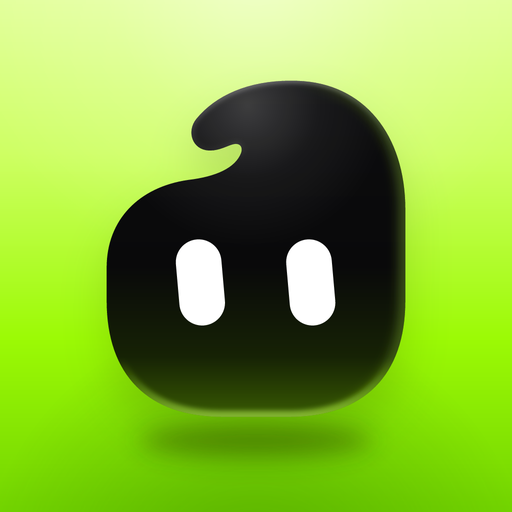
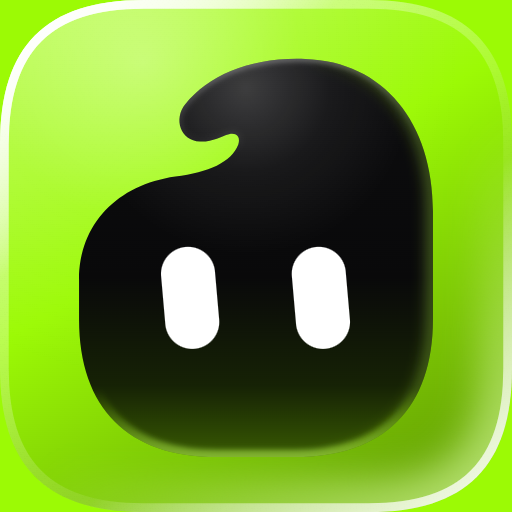
Ícone da aba volta a ser o Doug para todo mundo
A mistura do oficial (#92, ADR 0179) trocou o ícone da aba por /favicon.ico, o
céu de pixel do agentes.chat, no index.html e no ícone padrão de lib/app-icon.ts.
Agora os dois apontam de novo para /favicon.svg (o Doug), e favicon.ico,
apple-touch-icon.png e icon-512.png foram redesenhados a partir do mesmo Doug,
para o que não lê SVG (Safari antigo, tela inicial do iPhone, ícone do MCP).
O app-icons.mjs do oficial deixa de regravar esses três arquivos, e o
SYNC-DOUG.md registra a mudança para a próxima mistura.

diff --git a/apps/web/test/app-icon.test.ts b/apps/web/test/app-icon.test.ts
@@ -18,15 +18,15 @@ import {
 import { STORAGE_KEYS } from "../src/lib/storage";
 
 describe("the app icon in a browser (ADR 0179)", () => {
-  test("the shipped icon is the favicon browsers ask for; the others have their own", () => {
-    expect(faviconOf("night")).toBe("/favicon.ico");
+  test("the shipped icon is the Doug; the others have their own", () => {
+    expect(faviconOf("night")).toBe("/favicon.svg");
     expect(faviconOf("peekSky")).toBe("/app-icons/peekSky.ico");
     expect(APP_ICONS.map(appIconPicture)).toContain("/app-icons/moon.png");
     expect(picksAppIcon()).toBe(true);
   });
 
   test("a pick changes the tab's icon and stays in this browser", async () => {
-    document.head.innerHTML = '<link rel="icon" href="/favicon.ico" sizes="16x16 32x32 48x48" />';
+    document.head.innerHTML = '<link rel="icon" href="/favicon.svg" />';
     const changes: string[] = [];
     const listen = () => changes.push(String(appIcon()));
     window.addEventListener("agentes:app-icon", listen);
@@ -35,13 +35,13 @@ describe("the app icon in a browser (ADR 0179)", () => {
     expect(localStorage.getItem(STORAGE_KEYS.appIcon)).toBe("moon");
     expect(appIcon()).toBe("moon");
     await setAppIcon("night");
-    expect(document.querySelector('link[rel="icon"]')?.getAttribute("href")).toBe("/favicon.ico");
+    expect(document.querySelector('link[rel="icon"]')?.getAttribute("href")).toBe("/favicon.svg");
     expect(changes).toEqual(["moon", "night"]);
     window.removeEventListener("agentes:app-icon", listen);
   });
 
   test("an agent picked is kept with who it is and its look, and read back only when well formed", async () => {
-    document.head.innerHTML = '<link rel="icon" href="/favicon.ico" sizes="16x16 32x32 48x48" />';
+    document.head.innerHTML = '<link rel="icon" href="/favicon.svg" />';
     const agent = { orgId: "o-1", id: "a_1", name: "Dev", look: { color: "violet" as const, eyes: "wide" as const } };
     await setAppIcon({ agent });
     expect(pickedAgent(appIcon())).toEqual(agent);

diff --git a/apps/web/index.html b/apps/web/index.html
@@ -2,8 +2,9 @@
 <html lang="en" data-theme="dark">
   <head>
     <meta charset="UTF-8" />
-    <!-- Drawn pixel by pixel at 16 and 32 (packages/ui/scripts/app-icons.mjs); a person's pick swaps it (lib/app-icon.ts). -->
-    <link rel="icon" href="/favicon.ico" sizes="16x16 32x32 48x48" />
+    <!-- The Doug (public/favicon.svg, from packages/ui/scripts/dougbot-files.ts); a person's pick swaps it (lib/app-icon.ts).
+         favicon.ico, apple-touch-icon.png and icon-512.png are the same Doug for what can't read an SVG. -->
+    <link rel="icon" href="/favicon.svg" />
     <link rel="apple-touch-icon" href="/apple-touch-icon.png" />
     <!-- viewport-fit=cover: the layout pads itself with env(safe-area-inset-*); the keyboard resizes the page (composer stays visible). -->
     <meta name="viewport" content="width=device-width, initial-scale=1.0, viewport-fit=cover, interactive-widget=resizes-content" />

diff --git a/apps/web/src/lib/app-icon.ts b/apps/web/src/lib/app-icon.ts
@@ -48,8 +48,8 @@ let current: AppIconPick = inDesktopApp() ? DEFAULT_APP_ICON : parsePick(storage
 
 /** The icon's picture in the picker (packages/ui/scripts/app-icons.mjs writes them). */
 export const appIconPicture = (id: AppIconId) => `/app-icons/${id}.png`;
-/** The tab's icon: the shipped one at the address browsers ask for on their own. */
-export const faviconOf = (id: AppIconId) => (id === DEFAULT_APP_ICON ? "/favicon.ico" : `/app-icons/${id}.ico`);
+/** The tab's icon: the shipped one is the Doug (DougBot's mark, the same as index.html's), the others their own. */
+export const faviconOf = (id: AppIconId) => (id === DEFAULT_APP_ICON ? "/favicon.svg" : `/app-icons/${id}.ico`);
 
 /** Whether this device can change its icon here (a browser, or a desktop app that keeps one). */
 export const picksAppIcon = () => !inDesktopApp() || desktopPicksAppIcon();

diff --git a/apps/server/src/app.ts b/apps/server/src/app.ts
@@ -427,7 +427,8 @@ export function createApp(options: AppOptions) {
       const html = c.res.headers.get("content-type")?.startsWith("text/html");
       if (html) c.res.headers.set("x-robots-tag", "noindex");
       if (!c.res.ok || c.res.headers.has("cache-control")) return;
-      if (html || c.req.path === "/favicon.svg") c.res.headers.set("cache-control", "no-cache");
+      if (html || c.req.path === "/favicon.svg" || c.req.path === "/favicon.ico")
+        c.res.headers.set("cache-control", "no-cache");
       else if (c.req.path.startsWith("/assets/"))
         c.res.headers.set("cache-control", "public, max-age=31536000, immutable");
     });

diff --git a/SYNC-DOUG.md b/SYNC-DOUG.md
@@ -47,6 +47,7 @@ Montar a imagem no servidor a partir do `main` (ou de uma tag `doug-*`) e subir 
 - Grupos/canais com nome de exibição e foto (colunas `display_name`/`icon`).
 - Navegador: assumir o controle para os comandos do agente e do servidor; um cartão ao vivo por agente.
 - WhatsApp: números conectados por um gateway (Evolution Go) no mesmo servidor, com as conversas no nosso banco (`docs/adr/doug-0001-whatsapp-numbers.md`). As três tabelas `whatsapp_*` são criadas no boot por `EXTRA_COLUMNS`, fora do journal.
+- Ícone da aba e do app na web: o Doug. `index.html` aponta para `/favicon.svg` (de `packages/ui/scripts/dougbot-files.ts`) e `faviconOf` do ícone padrão também (`apps/web/src/lib/app-icon.ts`); `favicon.ico`, `apple-touch-icon.png` e `icon-512.png` em `apps/web/public` são o mesmo Doug, e `packages/ui/scripts/app-icons.mjs` do oficial não os regrava. Ao misturar o oficial, conferir que nada voltou a apontar para o ícone de pixel do agentes.chat.
 - Conectores: `MCP_PRIVATE_SERVERS` (MCP interno exato, ex. Segundo Cérebro: aceito ao cadastrar e a cada requisição do `outboundFetch`; nunca use o `allowPrivateOutbound` global) e `MCP_CIMD_ISSUERS` (OAuth por documento de metadados em `/oauth/client-metadata.json`, ex. HeyGen).
 
 ## Automações herdadas do oficial
